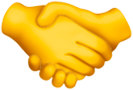
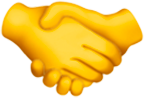
emoji size

diff --git a/src/components/WeekInfoBullet/index.tsx b/src/components/WeekInfoBullet/index.tsx
@@ -7,11 +7,11 @@ export default function WeekInfoBullet({ url, text, week }: WeekInfoBulletProps)
     return (
         <Stack paddingBottom={4} position='relative' alignItems='center'>
             <Flex zIndex={5} alignItems={'flex-end'} width={'90%'} justify='space-between'>
-                <Box width={12} height={12}>
-                    <Image alt="img" src={url} />
-                </Box>
+                <Flex width={12} alignItems='center' justifyContent='center' height={12}>
+                    <Image width={60} height={60} alt="img" src={url} />
+                </Flex>
                 <Box width={6} height={6}>
-                    <Image alt="options" src={options} />
+                    <Image  alt="options" src={options} />
                 </Box>
             </Flex>
             <Box marginBottom={4} zIndex={5} width={'90%'}>
